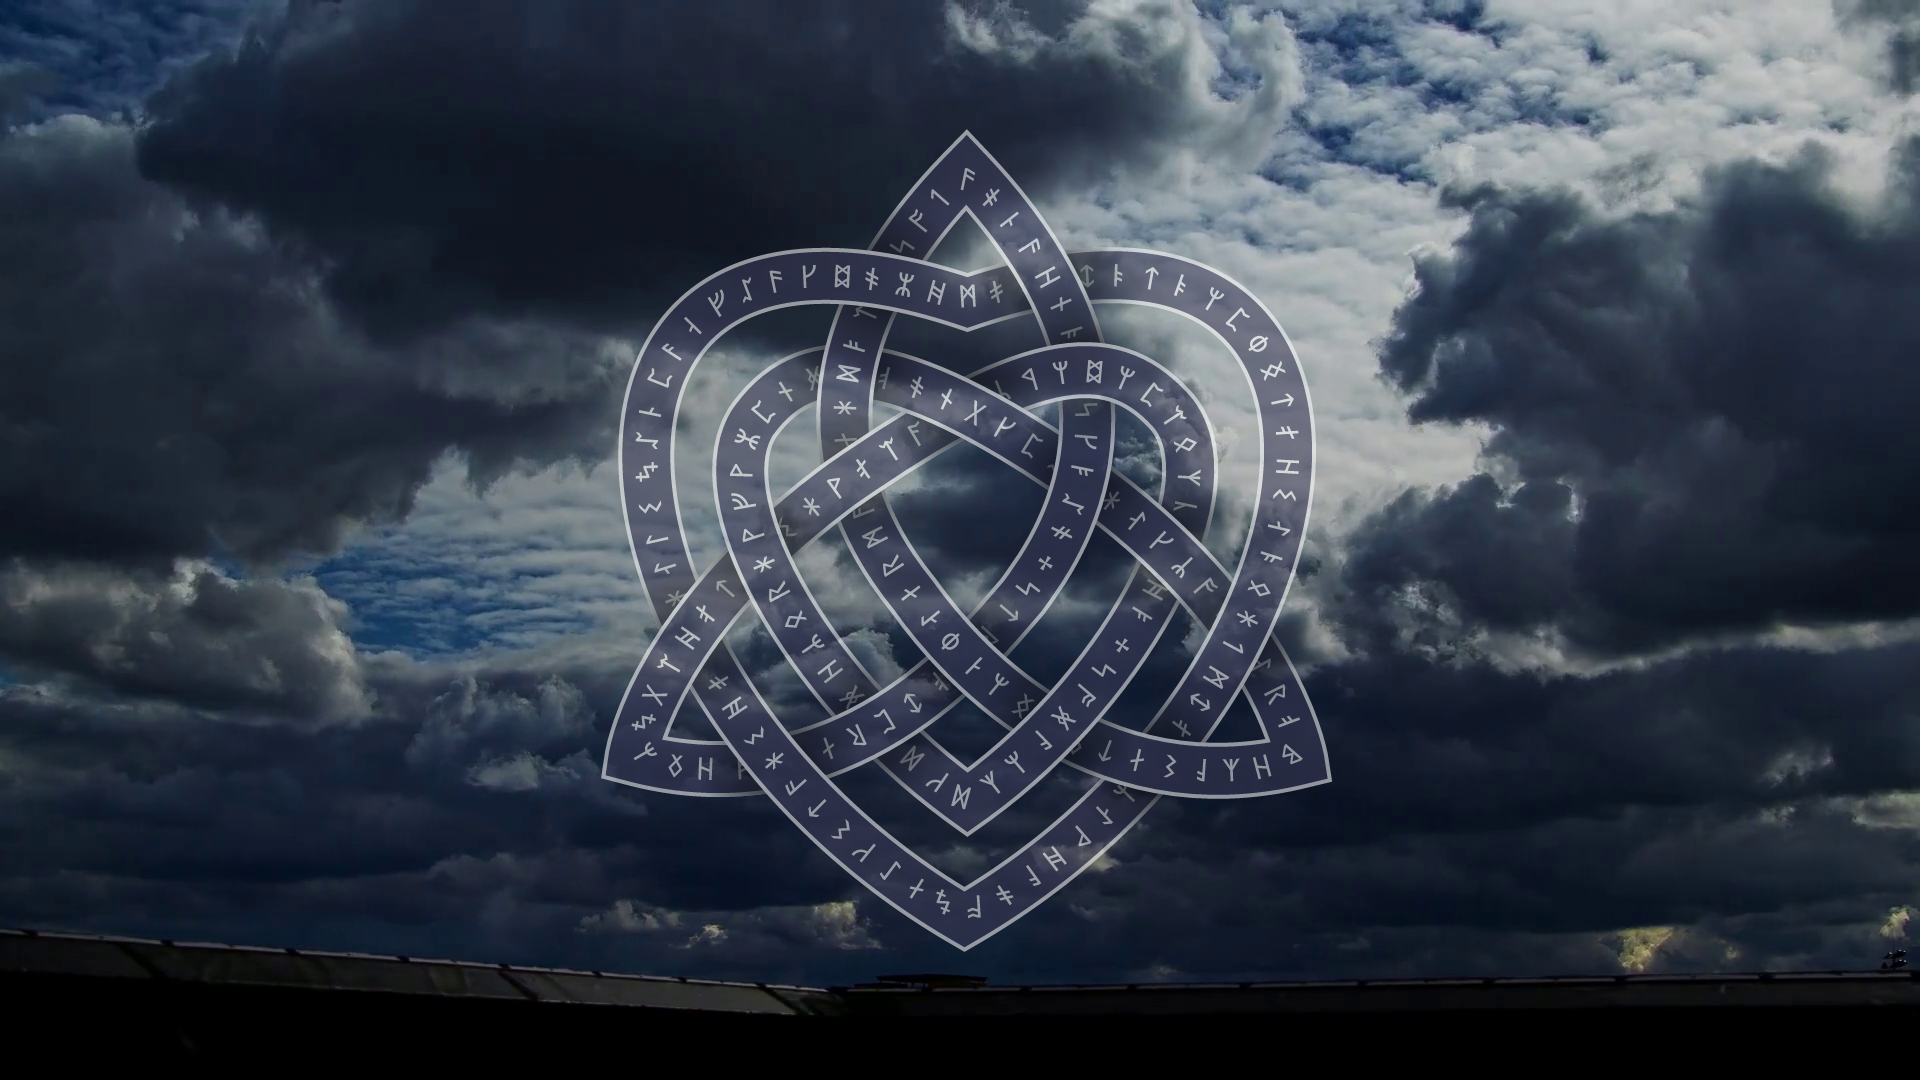
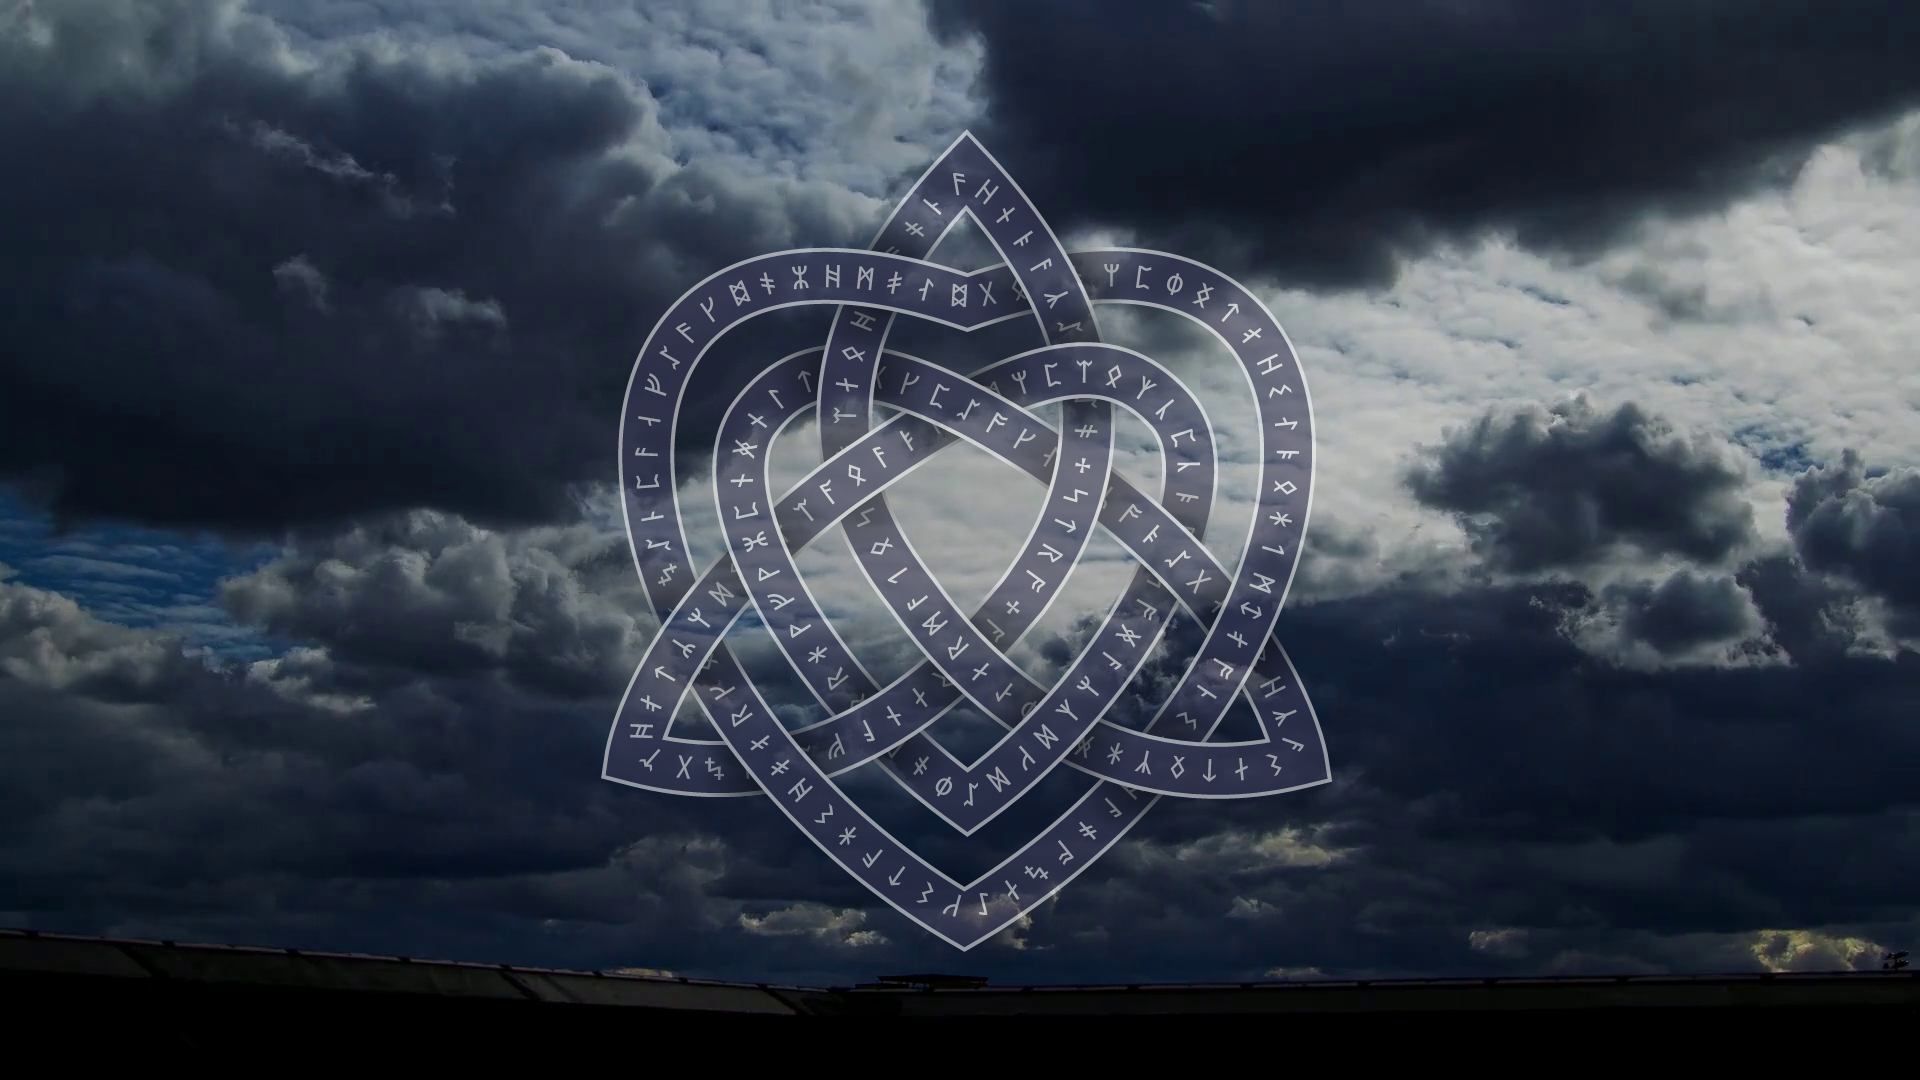
Changes to make one frame without prepare.cmd

diff --git a/Examples/Showcases/Showcases/CelticHeart.cs b/Examples/Showcases/Showcases/CelticHeart.cs
@@ -21,7 +21,7 @@ namespace Aspose.Drawing.Showcases
         private static readonly string text = "ᛦᛨᛩᛪ᛭ᛮᛯᛰᚠᛅᛆᛇᛈᛉᛊᛋᛏᛐᛒᛓᛗᛘᛚᛝᛞᛟᛠᛡᛢᛣᛥᚨᚩᚪᚫᚬᚭᚮᚯᚰᚱᚳᚴᚷᚸᚹᚺᚻᚼᚾᚿᛀ";
         private static readonly string rootDirectory = Path.Combine(RunShowcases.GetDataDir(), "CelticHeart");
         private static readonly string outputDirectory = Path.Combine(rootDirectory, "out");
-        private static readonly string inputDirectory1 = Path.Combine(rootDirectory, "RooftopClouds_out");
+        private static readonly string inputDirectory1 = makeVideo ? Path.Combine(rootDirectory, "RooftopClouds_out") : rootDirectory;
         private static readonly string inputDirectory2 = Path.Combine(rootDirectory, "StarrySky_out");
         private static readonly Color bgColor = Color.Transparent;
         private static readonly Random random = new(0);
@@ -40,6 +40,11 @@ namespace Aspose.Drawing.Showcases
         {
             int w = 1120;
             int h = 900;
+
+            if (!Directory.Exists(outputDirectory))
+            {
+                Directory.CreateDirectory(outputDirectory);
+            }
 
             Bitmap bitmap = new(w, h);
             Graphics g = Graphics.FromImage(bitmap);
@@ -175,7 +180,7 @@ namespace Aspose.Drawing.Showcases
             }
             else
             {
-                frameNumber = 75;
+                frameNumber = 151;
                 for (int i = 0; i < 1; i++)
                 {
                     ShiftRibbonStrings(ribbons);

diff --git a/Examples/Showcases/Showcases/CarBody.cs b/Examples/Showcases/Showcases/CarBody.cs
@@ -20,6 +20,11 @@ namespace Aspose.Drawing.Showcases
             int w = 1024;
             int h = 438;
 
+            if (!Directory.Exists(outputDirectory))
+            {
+                Directory.CreateDirectory(outputDirectory);
+            }
+
             GraphicsPath carBody = MakeCarBody(h);
 
             Skin skin1 = new() { Background = Color.FromArgb(120, 0, 80, 80) };

diff --git a/Examples/README.md b/Examples/README.md
@@ -17,6 +17,12 @@ Please find more details for how to run the examples [here](https://docs.aspose.
 + The Showcases project has been created in Visual Studio Community 2022, because it uses .NET 7.0.
 + Each showcase will create only one frame, but you can toggle to create hundreds of frames for video files. But rendering of video will take a long time (~15 minutes for CelticHeart showcase).
 
+Separated frames for example:
+
+![CarBody](Data/Showcases/CarBody/carbody-sedan-04.png)
+![CelticHeart](Data/Showcases/CelticHeart/sample_CelticHeart.png)
+
+For video only:
 + Firstly, run [`prepare.cmd`](Data/Showcases/prepare.cmd) to create some folders and background frames from videofile.
 + Finally, run `make_video.cmd` and `add_sound.cmd` (optionally, if option `makeVideo` is enabled).
 
